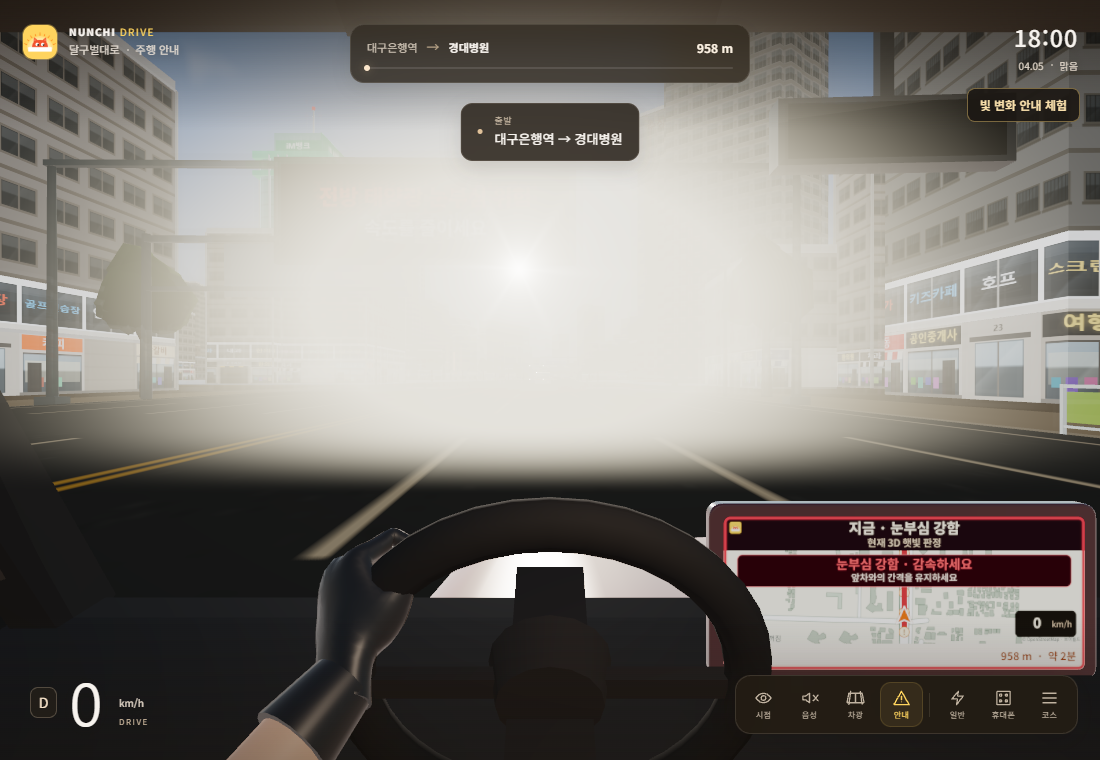
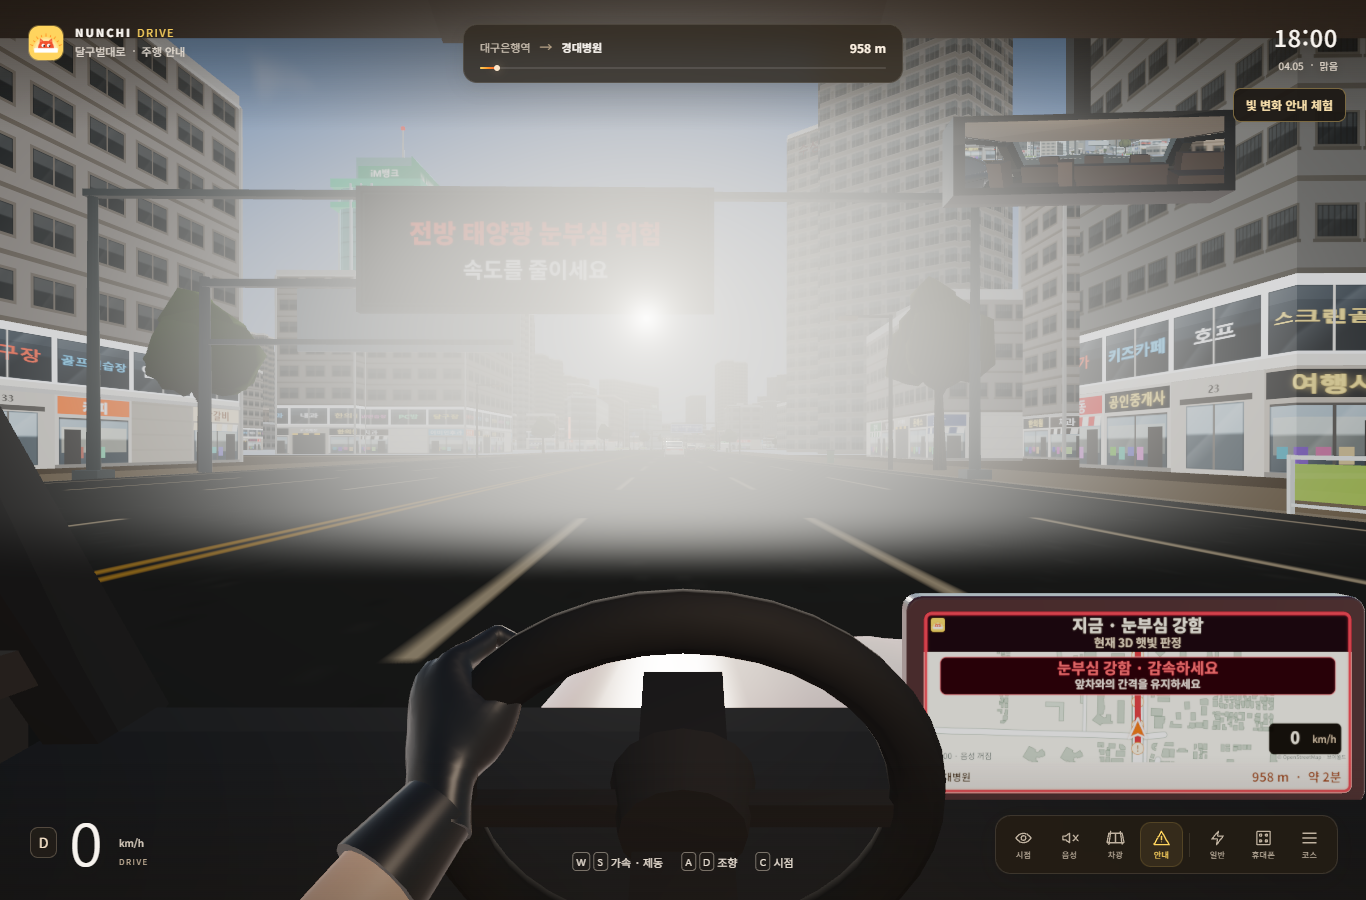
fix: 눈부심 번짐 자연화와 밝기 변화 안내 문구 정리 (#34)

diff --git a/src/game/lightGlare.ts b/src/game/lightGlare.ts
@@ -17,27 +17,35 @@ export function createLightGlare() {
         vec4 scene=texture2D(tDiffuse,vUv);
         float roadMask=smoothstep(1.-roadBottom,1.-roadBottom+.09,vUv.y);
         vec2 d=(vUv-sunUv)*vec2(aspect,1.);
-        float r=length(d), angle=atan(d.y,d.x+.000001);
+        float r=length(d);
         float core=.00016/(r*r+.00016);
-        float corona=exp(-r*18.);
-        float rays=pow(abs(cos(angle*3.+.18)),32.)*exp(-r*22.);
-        float scatter=sunlight*(core*11.+corona*1.5+rays*1.1)*exp(-r*r/.09)*roadMask;
-        // The light source and forward road lose contrast together. The mask
-        // excludes the dashboard/navigation and remains zero without direct sun.
+        float corona=exp(-r*14.);
+        float scatter=sunlight*(core*9.+corona*.85)*exp(-r*r/.12)*roadMask;
+        // A smooth source-centred veil preserves silhouettes away from the sun.
+        // Avoid a near-opaque patch fixed to the centre of the windscreen.
         float severe=smoothstep(.22,.72,sunlight);
-        vec2 forwardUv=mix(sunUv,vec2(.5,max(1.-roadBottom+.16,.48)),.55);
+        vec2 forwardUv=mix(sunUv,vec2(.5,max(1.-roadBottom+.16,.48)),.35);
         vec2 ahead=(vUv-forwardUv)*vec2(aspect,1.);
-        float sourceVeil=exp(-dot(d/vec2(.35,.25),d/vec2(.35,.25)));
-        float forwardVeil=exp(-dot(ahead/vec2(.42,.21),ahead/vec2(.42,.21)));
-        float veil=severe*min(.96,sourceVeil*.80+forwardVeil*.90)*roadMask;
+        float sourceVeil=exp(-dot(d/vec2(.32,.25),d/vec2(.32,.25)));
+        float forwardVeil=exp(-dot(ahead/vec2(.46,.23),ahead/vec2(.46,.23)));
+        float veil=severe*(1.-exp(-(sourceVeil*.95+forwardVeil*.65)))*roadMask;
         if(veil>.002){
-          vec2 radius=vec2(.009/aspect,.009);
-          vec3 diffuse=texture2D(tDiffuse,vUv+radius).rgb+texture2D(tDiffuse,vUv-radius).rgb;
+          // A small weighted kernel softens glare without duplicated edges.
+          vec2 radius=vec2(.003/aspect,.003)*(.5+veil);
+          vec3 diffuse=scene.rgb*4.;
+          diffuse+=2.*texture2D(tDiffuse,vUv+vec2(radius.x,0.)).rgb;
+          diffuse+=2.*texture2D(tDiffuse,vUv-vec2(radius.x,0.)).rgb;
+          diffuse+=2.*texture2D(tDiffuse,vUv+vec2(0.,radius.y)).rgb;
+          diffuse+=2.*texture2D(tDiffuse,vUv-vec2(0.,radius.y)).rgb;
+          diffuse+=texture2D(tDiffuse,vUv+radius).rgb+texture2D(tDiffuse,vUv-radius).rgb;
           diffuse+=texture2D(tDiffuse,vUv+vec2(radius.x,-radius.y)).rgb;
           diffuse+=texture2D(tDiffuse,vUv+vec2(-radius.x,radius.y)).rgb;
-          scene.rgb=mix(scene.rgb,diffuse*.25,veil*.65);
+          scene.rgb=mix(scene.rgb,diffuse/16.,veil*.3);
         }
-        scene.rgb=mix(scene.rgb,vec3(2.2,2.03,1.65),veil);
+        // Near-white light lifts dark detail gradually; warmth stays close to
+        // the source, instead of tinting the whole road yellow.
+        vec3 veilColor=mix(vec3(1.5,1.5,1.46),vec3(1.85,1.7,1.42),sourceVeil*.4);
+        scene.rgb=mix(scene.rgb,veilColor,veil);
         // Bright outdoor surfaces overexpose first at an exit. Dark objects
         // and the dashboard retain their contrast instead of turning milky.
         float luminance=dot(scene.rgb,vec3(.2126,.7152,.0722));

diff --git a/src/game/model3.ts b/src/game/model3.ts
@@ -19,8 +19,9 @@ export const MODEL3_CAPTURE_M = 205;
 export const MODEL3_CLOUD: Record<string, number> = { clear: 0, cloud: 5, over: 9 };
 
 const GRADES = ['하', '중', '상'];
-/** 운전자에게 보이는 문구: 요청서 v4 규격 ("모델 ③ · 지하차도 입구 순응 위험 상" + "감속하세요"). 사고 확률 표현은 쓰지 않는다. */
-export const model3AlertText = (g: Model3Grade) => `모델 ③ · 지하차도 입구 순응 위험 ${g}`;
+export const BRIGHTNESS_CHANGE: Record<Model3Grade, string> = { 상: '큼', 중: '보통', 하: '작음' };
+/** 운전자에게는 분석 번호 대신 도로 상황과 밝기 변화를 안내한다. */
+export const model3AlertText = (g: Model3Grade) => `지하차도 진입 · 밝기 변화 ${BRIGHTNESS_CHANGE[g]}`;
 export const MODEL3_ALERT_NOTE: Record<Model3Grade, string> = {
   상: '감속하세요 · 진입 후 2초 동안 시야가 급격히 어두워집니다',
   중: '감속하세요 · 진입 후 잠깐 앞이 어두워집니다',
@@ -32,14 +33,14 @@ function parseEffect(v: unknown): ScreenEffect {
   if (!e || typeof e.start_dark_opacity !== 'number' || !(e.start_dark_opacity >= 0 && e.start_dark_opacity <= 1) ||
       typeof e.recover_s !== 'number' || !(e.recover_s > 0 && e.recover_s <= 10) || !Array.isArray(e.curve) || e.curve.length < 2 ||
       !e.curve.every(p => p && Number.isFinite(p.t_s) && Number.isFinite(p.dark_opacity) && p.dark_opacity >= 0 && p.dark_opacity <= 1)) {
-    throw new Error('모델 ③ 응답의 screen_effect 형식이 올바르지 않아요.');
+    throw new Error('밝기 변화 분석 결과를 확인하지 못했어요.');
   }
   return { start_dark_opacity: e.start_dark_opacity, recover_s: e.recover_s, curve: e.curve };
 }
 export function parseModel3Reading(value: unknown, source: Model3Source): Model3Reading {
   const r = value as { grade?: unknown; warn_distance_m?: unknown; screen_effect?: unknown } | null;
   if (!r || typeof r !== 'object' || !GRADES.includes(r.grade as string) || typeof r.warn_distance_m !== 'number' || !(r.warn_distance_m > 0 && r.warn_distance_m < 1000)) {
-    throw new Error('모델 ③ 응답 형식이 올바르지 않아요.');
+    throw new Error('밝기 변화 분석 결과를 확인하지 못했어요.');
   }
   return { grade: r.grade as Model3Grade, warn_distance_m: r.warn_distance_m, screen_effect: parseEffect(r.screen_effect), source };
 }

diff --git a/src/game/navigationDisplay.ts b/src/game/navigationDisplay.ts
@@ -4,7 +4,7 @@ import { nearbyMapWays } from './navigationMap';
 import { ROAD_NAME } from './roadSelection';
 import { hm } from './sun';
 import { navigationCue, type NavigationZone } from './navigationGuidance';
-import type { Model3Grade } from './model3';
+import { BRIGHTNESS_CHANGE, type Model3Grade } from './model3';
 
 const brandLogo = new Image();
 brandLogo.src = `${import.meta.env.BASE_URL}logo.png`;
@@ -99,7 +99,7 @@ export function drawNavigationDisplay(canvas: HTMLCanvasElement, s: number, dir:
   }
   g.textAlign = 'center'; g.font = `bold ${compact ? 60 : 42}px ${FONT}`; g.fillStyle = '#fff8e7';
   const heading = hasModel3
-    ? `모델 ③ · 순응 위험 ${model3Grade}`
+    ? `밝기 변화 ${BRIGHTNESS_CHANGE[model3Grade!]}`
     : cue
       ? `${cue.active ? '지금' : `${cue.meters} m 앞`} · ${cue.text}`
       : running ? '경로를 따라 주행하세요' : '경로 안내 준비';
@@ -116,7 +116,7 @@ export function drawNavigationDisplay(canvas: HTMLCanvasElement, s: number, dir:
     g.strokeStyle = urgent ? '#ff9399' : '#f3c67c'; g.lineWidth = 2; g.stroke();
     g.fillStyle = accent; g.textAlign = 'center'; g.font = `bold ${compact ? 52 : 38}px ${FONT}`;
     const alertLine1 = hasModel3
-      ? `지하차도 입구 순응 위험 ${model3Grade}`
+      ? '지하차도 진입 전 · 속도를 줄이세요'
       : cue!.level === 2 ? '눈부심 강함 · 감속하세요' : urgent ? '시야 주의 · 감속하세요' : '주의 구간 · 미리 감속';
     const alertLine2 = hasModel3 ? '감속하세요 · 앞차와의 간격을 유지하세요' : '앞차와의 간격을 유지하세요';
     g.fillText(alertLine1, navCenter, header + (compact ? 69 : 54), width - 40);

diff --git a/src/game/roadsideSigns.ts b/src/game/roadsideSigns.ts
@@ -2,6 +2,7 @@ import * as THREE from 'three';
 import { at, kmToS, ROAD_W, UNDERPASSES } from './road';
 import { navigationCue, type NavigationZone } from './navigationGuidance';
 import type { SegmentAssessment } from './preTrip';
+import { BRIGHTNESS_CHANGE } from './model3';
 
 export type SignGrade = '하' | '중' | '상';
 const GRADE_COLOR: Record<SignGrade, string> = { 하: '#3BA55C', 중: '#F2C230', 상: '#F2522E' };
@@ -83,7 +84,7 @@ export function createRoadsideSigns(scene: THREE.Scene) {
         if (message.underpassAhead) {
           g.font = '800 164px "Noto Sans KR",sans-serif';
           g.fillStyle = GRADE_COLOR[message.grade];
-          g.fillText(`지하차도 입구 순응 위험 ${message.grade}`, W / 2, 280, W - 120);
+          g.fillText(`지하차도 진입 · 밝기 변화 ${BRIGHTNESS_CHANGE[message.grade]}`, W / 2, 280, W - 120);
           g.font = '700 142px "Noto Sans KR",sans-serif';
           g.fillStyle = '#ffffff';
           g.fillText('속도를 줄이세요', W / 2, 490, W - 120);

diff --git a/docs/사용자_화면_개선_20261109.md b/docs/사용자_화면_개선_20261109.md
@@ -21,6 +21,12 @@
 
 ## 캡처
 
+### 후속 화면 조정
+
+- 정면 눈부심의 넓고 불투명한 덮임을 줄이고, 해 위치에서 부드럽게 옅어지는 빛 번짐으로 조정했다. 인위적인 별 모양 광선과 큰 간격의 흐림을 없애고, 작은 가중 평균 필터로 윤곽이 겹쳐 보이는 현상을 줄였다. 전방 대비 저하는 유지하며 내비게이션·계기판 영역은 보호한다.
+- 운전자에게 보이는 ‘모델 ③’·‘순응 위험 상/중/하’는 ‘지하차도 진입 · 밝기 변화 큼/보통/작음’으로 바꿨다. 주행 경고·내비게이션·전광판에 적용하고 등급 계산과 진입 시점은 유지한다.
+- 이는 화면 연출·문구 변경이며 모델 가중치나 임계값 변경이 아니다. 저장된 경로 사진 판정은 `rendererRevision`으로 구분한 기존 촬영 당시의 결과다.
+
 ![통합 안내](images/integration-review-annotated.png)
 
 ![휴대폰 가독성](images/phone-apps-readable.png)
